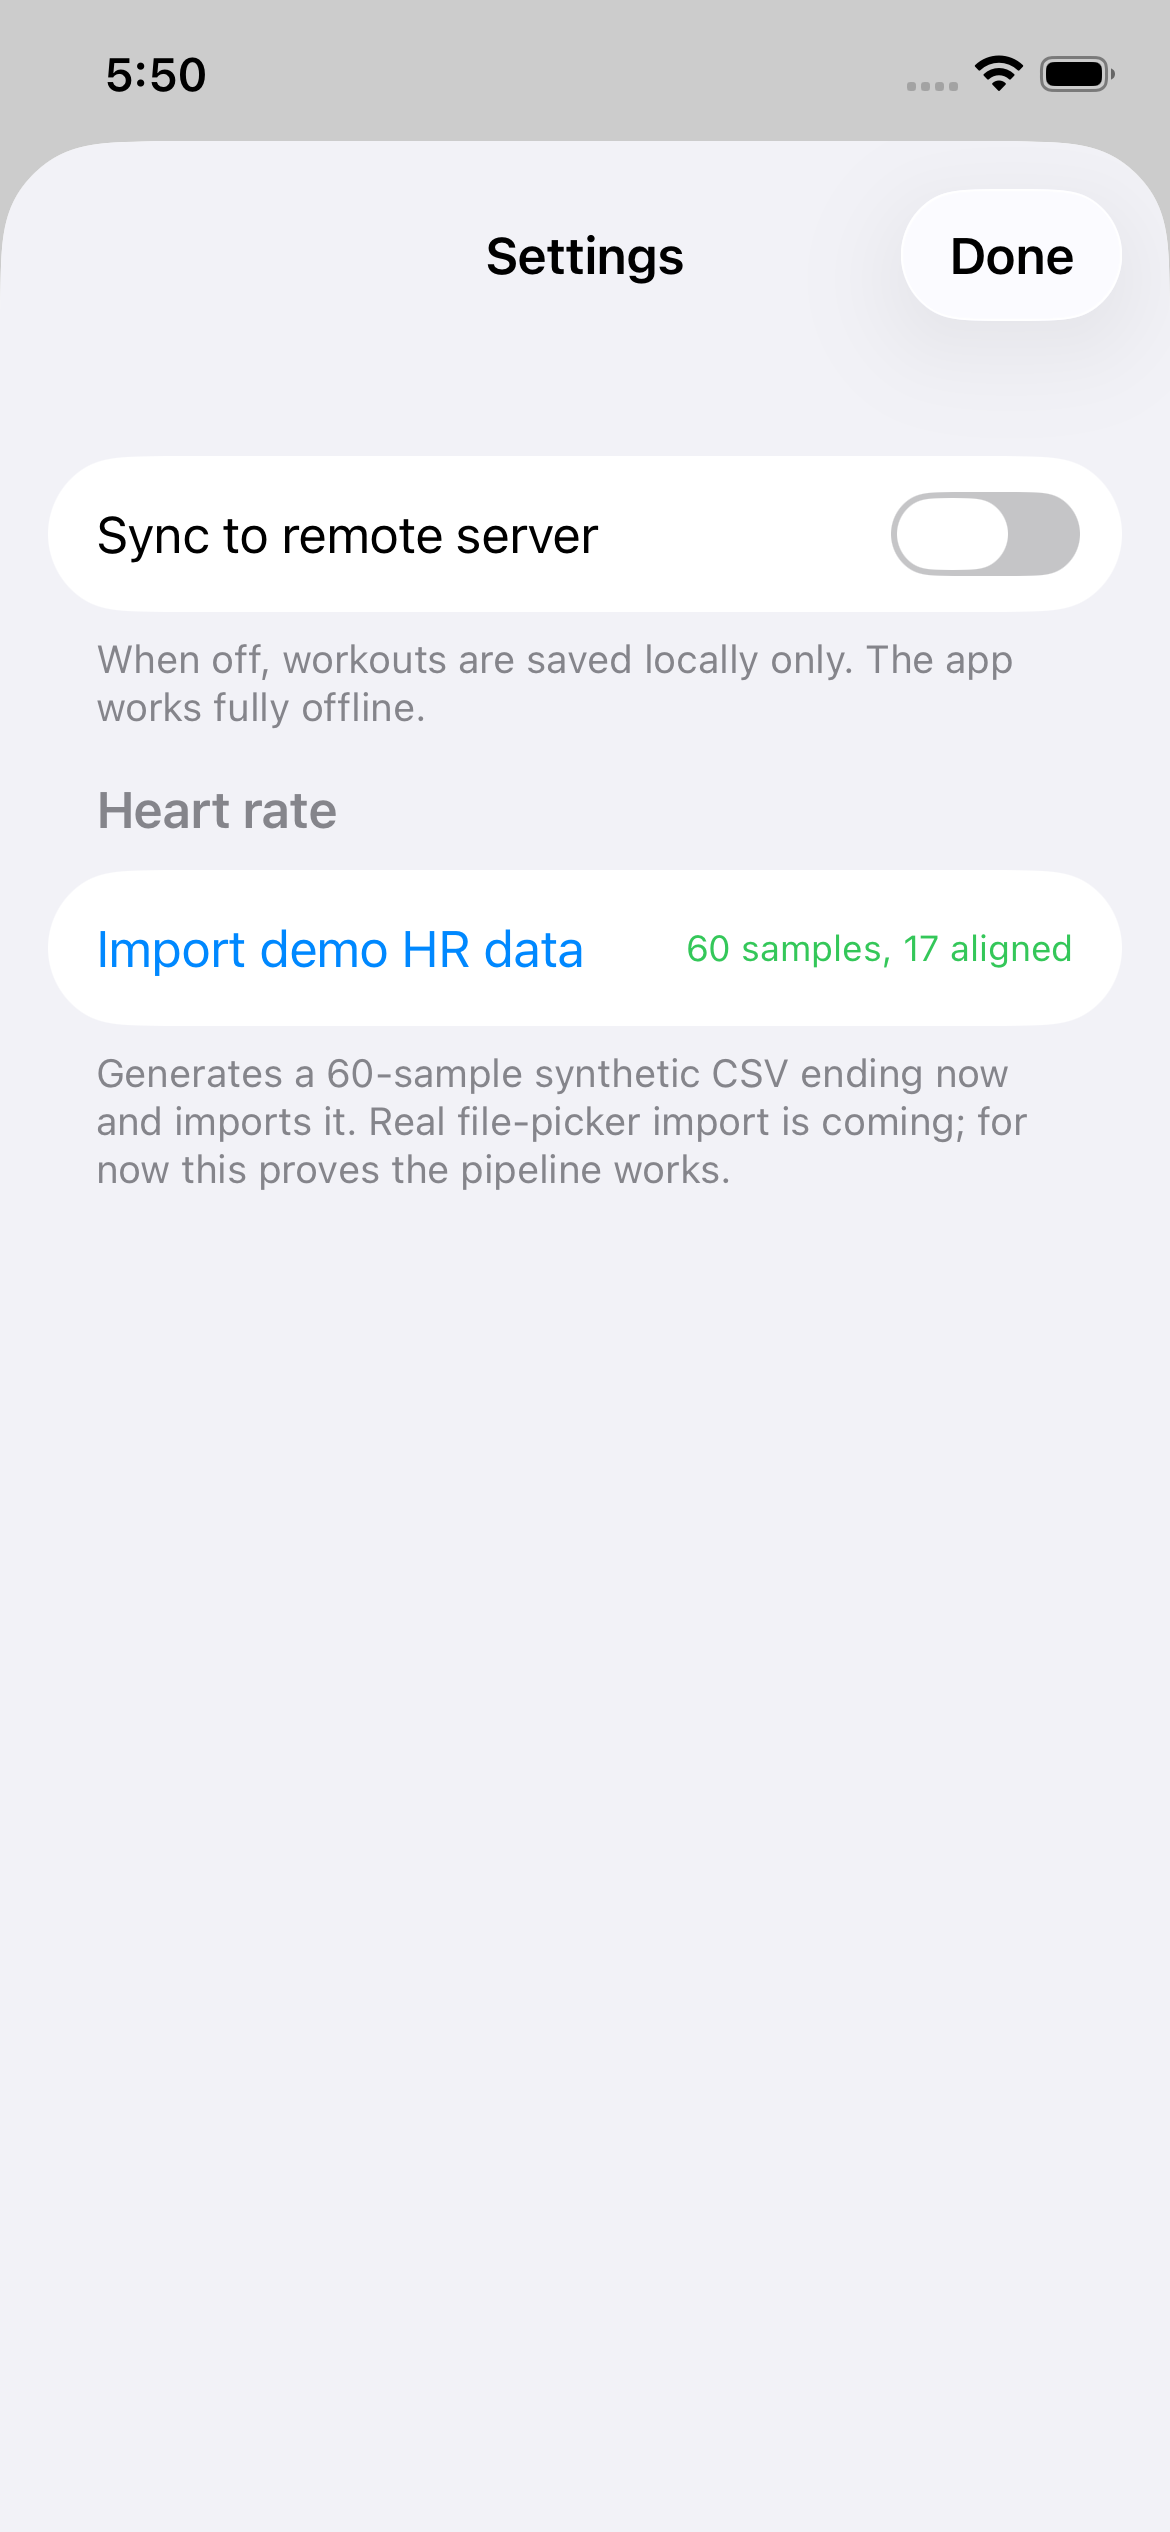
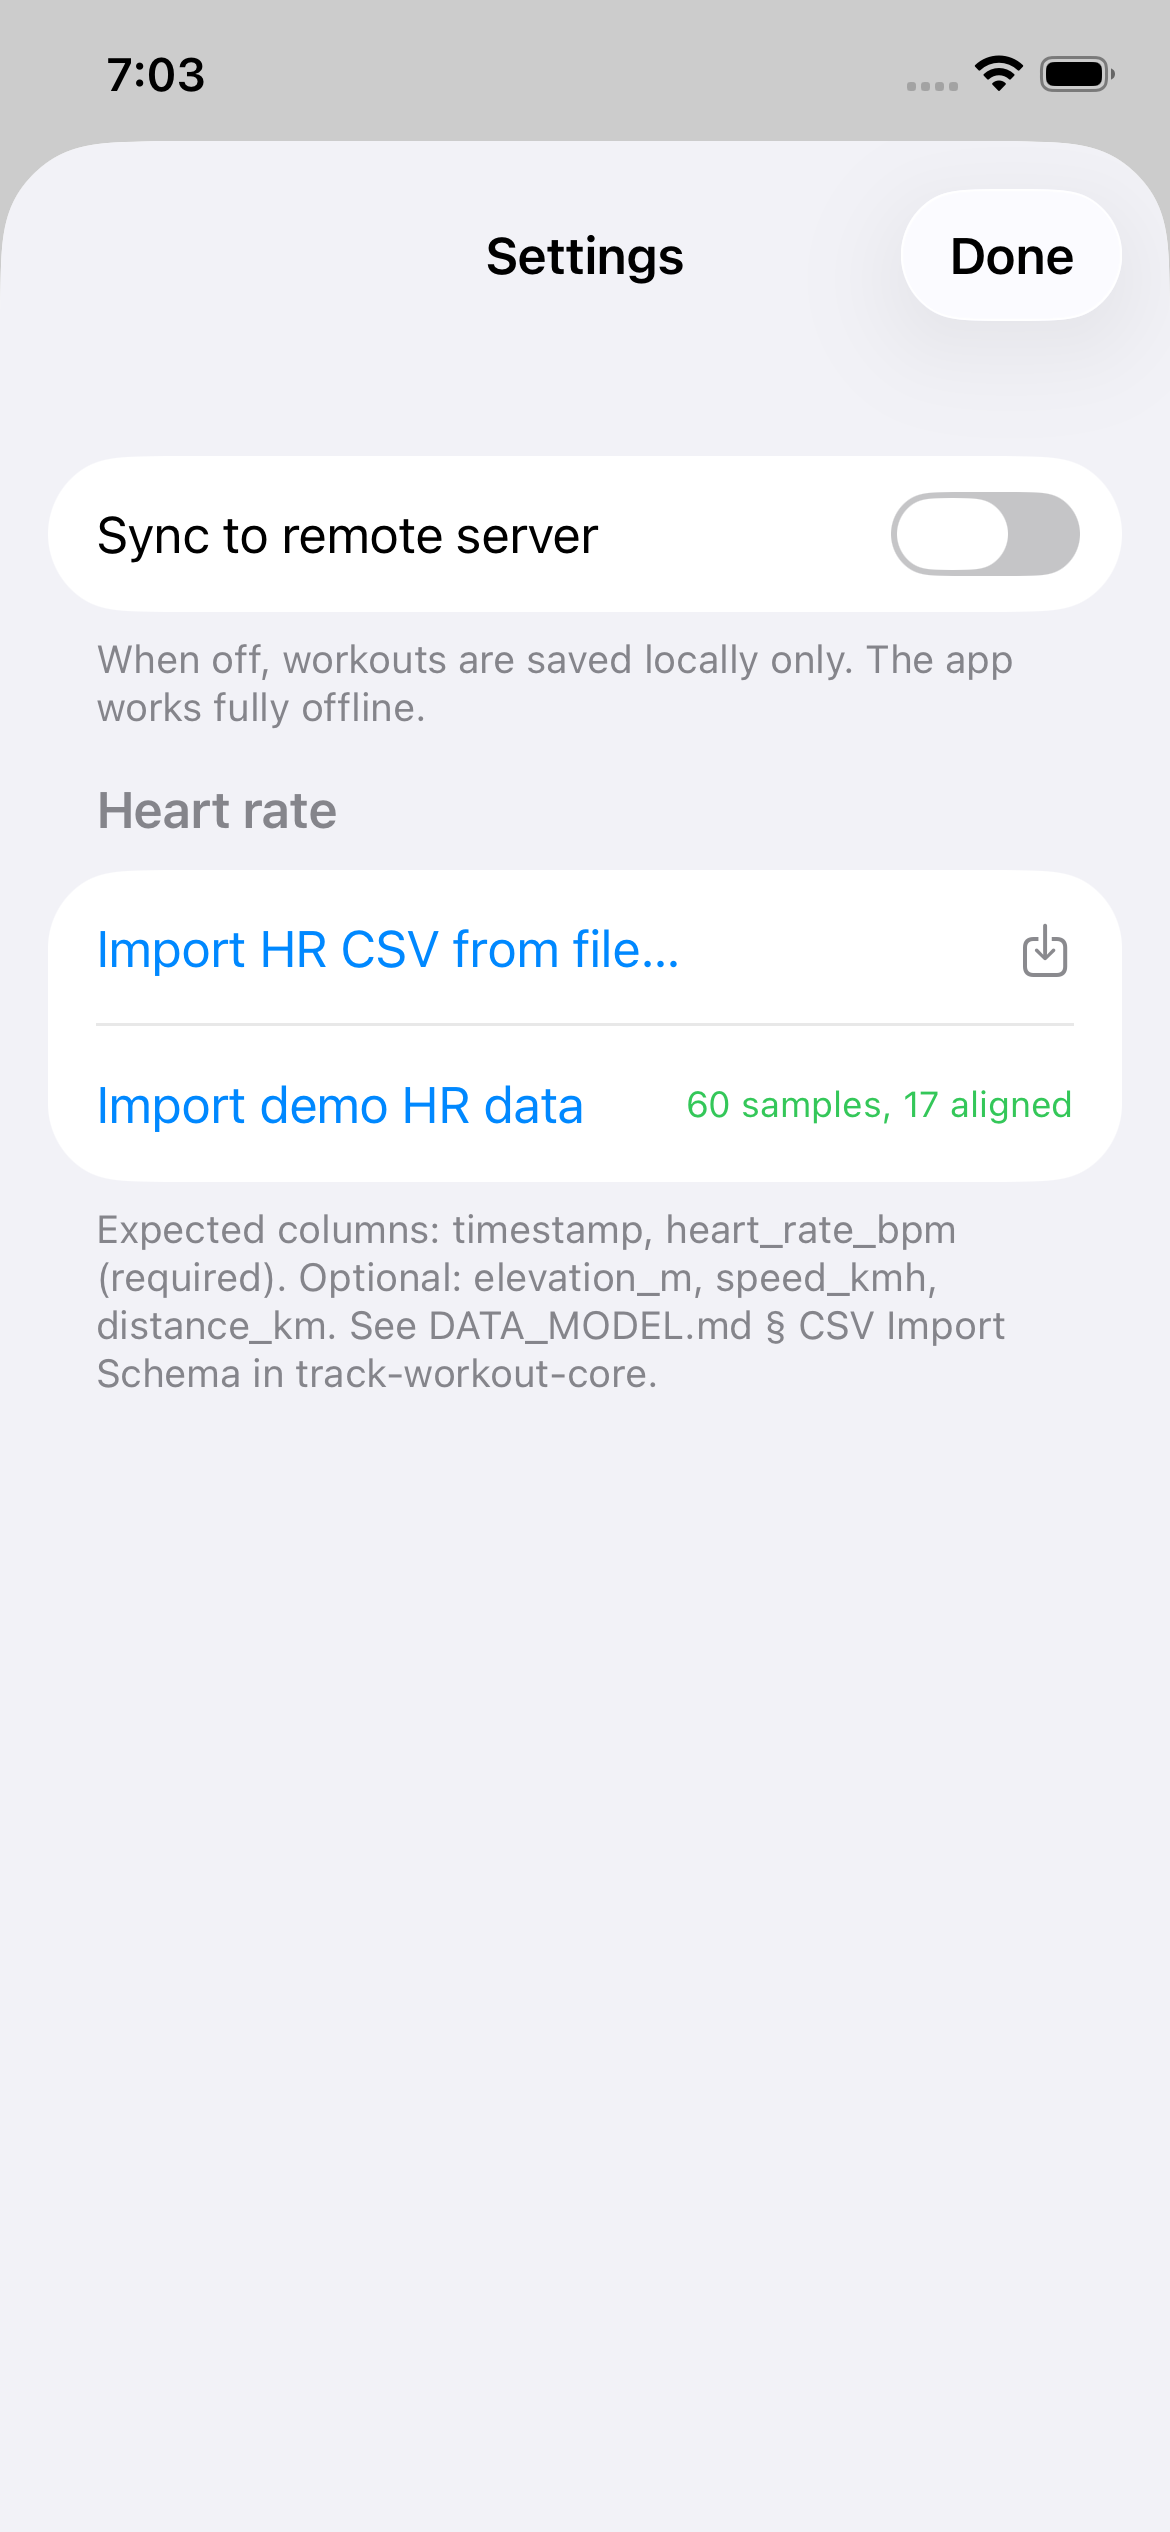
HR CSV file-picker import (Phase 2 of milestone 6)
Real file-picker now available alongside the demo-import button.
Wraps SwiftUI's .fileImporter with UTType.commaSeparatedText (and
.text / .plainText / .data for vendor exports that don't declare
correct MIME). Same parse + persist + align pipeline as the demo.

Security-scoped URL handling:
- startAccessingSecurityScopedResource() before read
- stopAccessingSecurityScopedResource() via defer
(Needed for files from Files.app / iCloud Drive.)

UX:
- "Import HR CSV from file…" button in the Heart rate section of
  Settings (above the existing demo button).
- Error row renders in red if the import fails (non-UTF-8, read error,
  etc.); import-result row stays green.
- Footer documents expected columns with a pointer to
  DATA_MODEL.md § CSV Import Schema.

Testability:
- UIDocumentPicker is a system sheet Maestro can't drive. The
  settings-sheet-smoke flow now asserts the new button is visible;
  deeper testing requires a real file on-device.

diff --git a/TrackWorkout/TrackWorkout/Views/SettingsSheet.swift b/TrackWorkout/TrackWorkout/Views/SettingsSheet.swift
@@ -1,5 +1,6 @@
 import SwiftUI
 import CoreData
+import UniformTypeIdentifiers
 
 enum SettingsKey {
     static let syncEnabled = "sync.enabled"
@@ -18,6 +19,8 @@ struct SettingsSheet: View {
     @State private var testResult: String?
     @State private var testing = false
     @State private var hrImportResult: String?
+    @State private var showingFileImporter = false
+    @State private var fileImportError: String?
 
     var body: some View {
         NavigationStack {
@@ -63,6 +66,16 @@ struct SettingsSheet: View {
                 }
 
                 Section {
+                    Button(action: { showingFileImporter = true }) {
+                        HStack {
+                            Text("Import HR CSV from file…")
+                            Spacer()
+                            Image(systemName: "square.and.arrow.down")
+                                .foregroundColor(.secondary)
+                        }
+                    }
+                    .accessibilityIdentifier("settings-import-hr-file")
+
                     Button(action: importDemoHR) {
                         HStack {
                             Text("Import demo HR data")
@@ -75,11 +88,24 @@ struct SettingsSheet: View {
                         }
                     }
                     .accessibilityIdentifier("settings-import-demo-hr")
+
+                    if let err = fileImportError {
+                        Text(err)
+                            .font(.caption)
+                            .foregroundColor(.red)
+                    }
                 } header: {
                     Text("Heart rate")
                 } footer: {
-                    Text("Generates a 60-sample synthetic CSV ending now and imports it. Real file-picker import is coming; for now this proves the pipeline works.")
+                    Text("Expected columns: timestamp, heart_rate_bpm (required). Optional: elevation_m, speed_kmh, distance_km. See DATA_MODEL.md § CSV Import Schema in track-workout-core.")
                 }
+            }
+            .fileImporter(
+                isPresented: $showingFileImporter,
+                allowedContentTypes: [.commaSeparatedText, .text, .plainText, .data],
+                allowsMultipleSelection: false
+            ) { result in
+                handleFileImport(result)
             }
             .navigationTitle("Settings")
             .navigationBarTitleDisplayMode(.inline)
@@ -126,6 +152,45 @@ struct SettingsSheet: View {
                     testResult = "Error: \(error.localizedDescription)"
                     testing = false
                 }
+            }
+        }
+    }
+
+    private func handleFileImport(_ result: Result<[URL], Error>) {
+        fileImportError = nil
+        switch result {
+        case .failure(let err):
+            fileImportError = "Could not open file: \(err.localizedDescription)"
+            return
+        case .success(let urls):
+            guard let url = urls.first else {
+                fileImportError = "No file selected"
+                return
+            }
+            // Files from other apps (Files.app, iCloud Drive) come with
+            // security-scoped URLs that need explicit access.
+            let needsRelease = url.startAccessingSecurityScopedResource()
+            defer {
+                if needsRelease { url.stopAccessingSecurityScopedResource() }
+            }
+            do {
+                let data = try Data(contentsOf: url)
+                guard let csv = String(data: data, encoding: .utf8) else {
+                    fileImportError = "File is not valid UTF-8"
+                    return
+                }
+                let (parsed, skipped) = HRImporter.parse(csv)
+                let source = "file:" + url.lastPathComponent
+                let importResult = HRImporter.persistAndAlign(
+                    parsed,
+                    source: source,
+                    userId: UUID(),
+                    in: viewContext
+                )
+                hrImportResult = "\(importResult.persisted) samples, \(importResult.aligned) aligned" +
+                    (skipped > 0 ? " · \(skipped) rows skipped" : "")
+            } catch {
+                fileImportError = "Read failed: \(error.localizedDescription)"
             }
         }
     }
